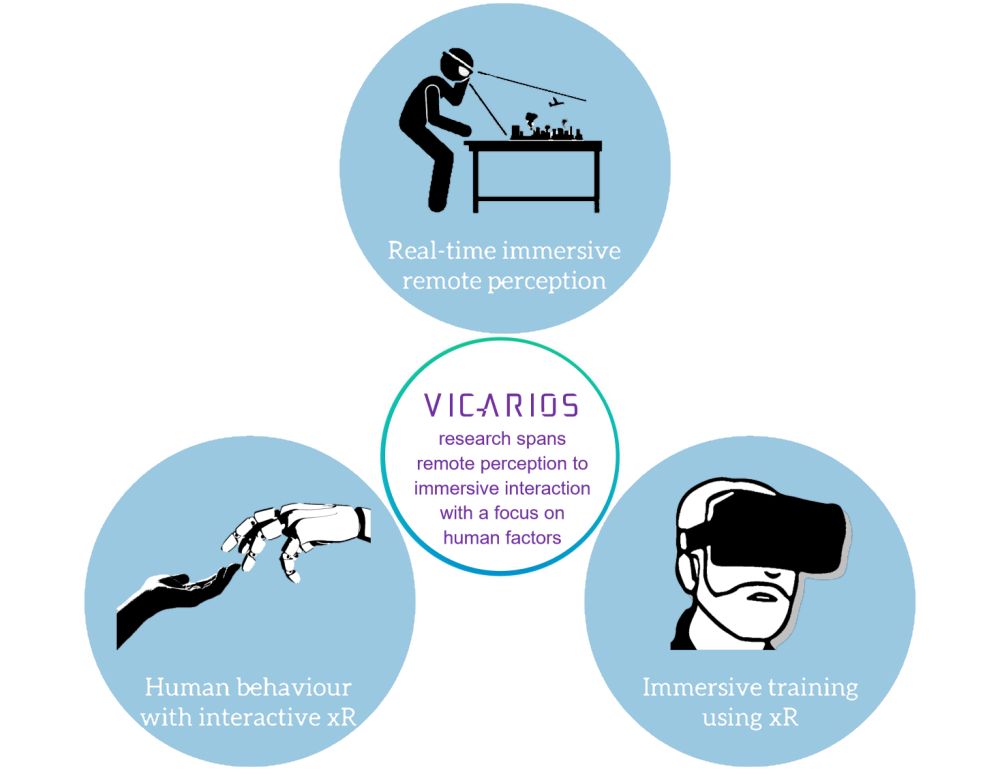
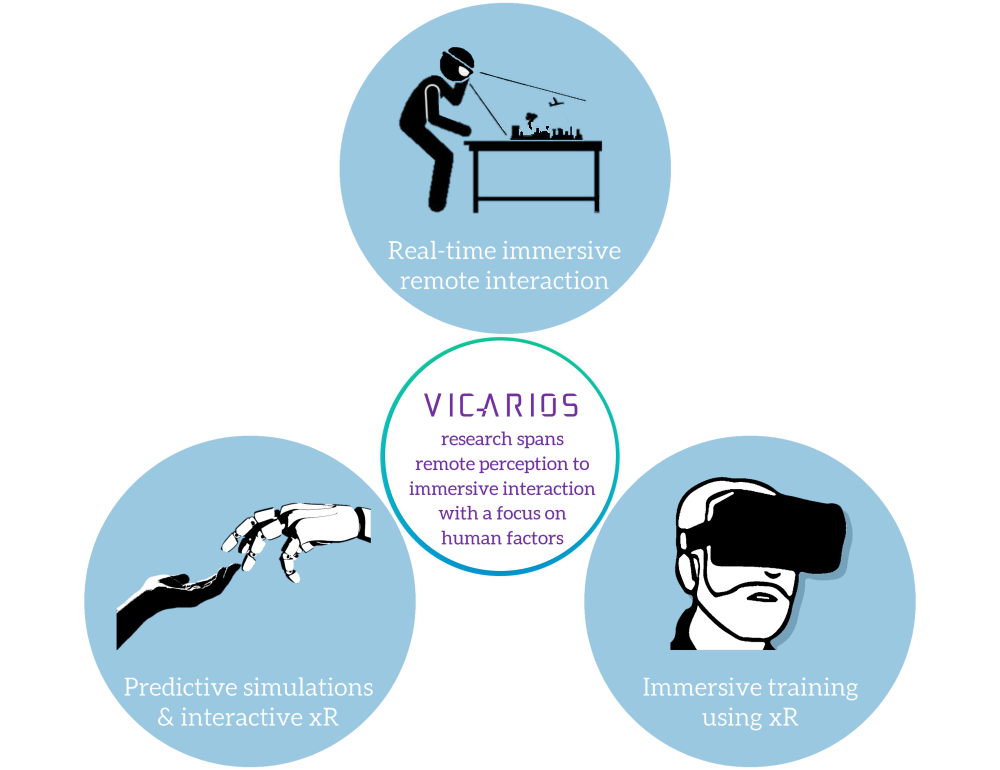
document update

diff --git a/index.html b/index.html
@@ -102,8 +102,8 @@
                         <!-- <h1 class="welcome-title animate v-logo" data-animate="fadeInUp">VICARIOS</h1> -->
                         <!-- <div><img src="images/logos/IIT-v4-logo-advr-t2.png" class="rounded float-left iit-logo-image" alt=""></div> -->
                         <div><img src="images/logos/vicarios-t4-3.png" class="mb-5 v-logo-image crisp-image" alt=""></div>
-                        <span class="animate" data-animate="fadeInUp">\ vɪ‧kɑ‧rɪ‧ɒs \</span>
-                        <p class="animate mt-5 . text-justify" data-animate="fadeInUp">The VICARIOS Mixed Reality and Simulations Lab aims to stimulate users to <em>vicariously</em> experience a remote environment, real or virtual. Through approaches in immersive mixed reality, telerobotics, and biomechanical simulations and control, the objective is to advance the understanding of human interaction with remote environments. </p>
+                        <span class="animate" data-animate="fadeInUp">\ vɪ‧kɑ‧rɪ‧ɒs \</span> <br>
+                        <span class="animate mt-5 . text-justify" data-animate="fadeInUp">The VICARIOS Mixed Reality and Simulations Lab aims to stimulate users to <em>vicariously</em> experience a remote environment, real or virtual. Through approaches in immersive mixed reality, telerobotics, and biomechanical simulations and control, the objective is to advance the understanding of human interaction with remote environments. </span>
                         <div class="scroll-down next-section animate data-animate="fadeInUp""><img src="images/mouse-scroll.png" alt=""><span>Scroll Down</span></div>
                     </div>
                 </div>
@@ -146,7 +146,7 @@
                                             <li><a href="#"><i class="fa fa-twitter"></i></a></li>
                                             <li><a href="#"><i class="fa fa-linkedin"></i></a></li>
                                             </ul>
-                                            <h4 class="mb-0">NIKHIL</h4>
+                                            <h4 class="mb-0">Nikhil</h4>
                                             <span class="padding-bottom">Team Leader</span>
 
                                         </div>
@@ -318,15 +318,15 @@
                                     <div class="col-md-6 half-border">
                                         <div class="title-block tab ">
                                             <div class="" data-animate="">
-                                                <span>Our research stands on three main pillars</span>
+                                                <span>Our research stands on THREE main pillars</span>
                                                 <h2></h2>
                                                 <div class="text-left" data-animate="">
                                                     <span> </span>
-                                                    <h6>To Enhance Real-time Immersive Interaction In telerobotics</h6>
+                                                    <h6>To enhance Real-time Immersive Interaction in Telerobotics</h6>
                                                     <p>We study how the combination of immersive mixed reality (MR) interfaces, intuitive control devices, real-time data from remote sensors (RGB-D cameras, microphones, F/T sensors, etc.) can allow high-fidelity in the perception-action loop, offering a real-time immersive interaction experience to the human user in telerobotics applications. </p>
-                                                    <h6>To Advance State-of-the-art In Immersive Training Through eXtended Reality (xR)</h6>
+                                                    <h6>To advance state-of-the-art in Immersive Training with eXtended Reality (xR)</h6>
                                                     <p>VR serves as a promising technology demonstration for safety training, providing risk free, immersive learning, among other features. We explore how xR technologies, combining VR with spatially contextualized physical interaction, can help make training sessions more effective in the acquisition of safety behaviour, while increasing the trainee’s engagement. </p>
-                                                    <h6>To Understand Human Interaction Behaviour Through Predictive Simulation And xR</h6>
+                                                    <h6>To understand Human Interaction Behaviour through Predictive Simulation and xR</h6>
                                                     <p>The overarching objective of our research is to improve our knowledge of how humans interact with remote environments, real or virtual. We investigate how predictive full-body biomechanical simulations, biophysiological parameter tracking, combined with xR can help understand a human user’s behaviour during their interaction with remote environments. </p>
                                                 </div>                                            
                                             </div>
@@ -352,7 +352,7 @@
                         
                         <div class="col-md-8 wide-col-laptop">
                             <div class="title-block " data-animate="">
-                                <span>PROJECTS</span>
+                                <span>RESEARCH PROJECTS</span>
                                 <h2></h2>
                             </div>
                         </div>
@@ -364,7 +364,7 @@
                             <img class="mb-3 crisp-image" src="images/Image1.jpg" />
                         </div>
                         <div class="col-md-9 text-left">
-                            <h5>Immersive remote telerobotics (IRT) Interface </h5>
+                            <h5>Immersive Remote Telerobotics (IRT) Interface </h5>
                             <p>The interface facilitates intuitive real-time remote teleoperation, while utilizing the inherent benefits of VR, including immersive visualization, freedom of user viewpoint selection, and fluidity of interaction through natural action interfaces </p>
 
                         </div>
@@ -375,8 +375,8 @@
                             <img class="mb-3 crisp-image" src="images/Image2.jpg" />
                         </div>
                         <div class="col-md-9 text-left">
-                            <h5>Immersive remote visualization using Foveated Rendering </h5>
-                            <p>A remote 3D data visualization framework that utilizes the natual acuity fall-off in the human eyes to facilitate the processing, transmission, buffering, and rendering in VR of dense point-clouds / 3D reconstructed scenes. </p>
+                            <h5>Immersive Remote Visualization using Foveated Rendering </h5>
+                            <p>A remote 3D data visualization framework that utilizes the natural acuity fall-off in the human eyes to facilitate the processing, transmission, buffering, and rendering in VR of dense point-clouds / 3D reconstructed scenes. </p>
 
                         </div>
                     </div>
@@ -386,7 +386,7 @@
                             <img class="mb-3 crisp-image" src="images/Image3.jpg" />
                         </div>
                         <div class="col-md-9 text-left">
-                            <h5>Truncated Signed Distance Fields, 3D reconstruction, and real-time haptic feedback in remote exploration applications  </h5>
+                            <h5>Truncated Signed Distance Fields (TSDFs), 3D Reconstruction, and real-time haptic feedback in remote exploration applications  </h5>
                             <p>A unified system for simultaneously estimating obstacle avoidance vectors while generating a TSDF-based 3D reconstruction of the environment, in real-time  </p>
 
                         </div>
@@ -397,7 +397,7 @@
                             <img class="mb-3 crisp-image" src="images/Image4.jpg" />
                         </div>
                         <div class="col-md-9 text-left">
-                            <h5>Immersive Mixed Reality Training for Workers Working at Heights </h5>
+                            <h5>Mixed Reality Training for Industrial Workers </h5>
                             <p>In the field of safety training, immersive, virtual training environments are seen to be more effective than conventional methods, when it comes to the acquisition of safety behaviour, and can increase trainee’s engagement. </p>
 
                         </div>
@@ -427,7 +427,7 @@
                         
                         <div class="col-md-12 wide-col-laptop">
                             <div class="title-block " data-animate="">
-                                <span>FUNDING</span>
+                                <span>FUNDED PROJECTS</span>
                                 <h2></h2>
                             </div>
                         </div>
@@ -438,7 +438,7 @@
                                         <div class="col-md-6">
                                             <div class="title-block tab-right">
                                                 <div class="" data-animate="">
-                                                    <span>ROBOT TELEOPERATIVO 2 </span>
+                                                    <h5>Robot Teleoperativo 2 </h5>
                                                     <h2></h2>
                                                     <div class="text-left" data-animate="">
                                                         <span> </span>
@@ -453,7 +453,7 @@
                                         <div class="col-md-6 half-border">
                                             <div class="title-block tab">
                                                 <div class="" data-animate="">
-                                                    <span>CADUTA dall’ALTO (Falling from Heights) </span>
+                                                    <h5>Caduta dall’Alto </h5> <span>(Falling from Heights) </span>
                                                     <h2></h2>
                                                     <div class="text-left" data-animate="">
                                                         <p>The project is aimed at the design and development of novel strategies and solutions aimed at preventing accidents as well as protecting workers working at heights. The project will focus on advancements in wearable sensing & actuation technologies, including technologies for fall impact reduction and smart monitoring, as well as on new paradigms in immersive training for workers. </p>
@@ -631,6 +631,15 @@
                                                         <span> </span>
                                                         <p></p>
                                                         <div class="row justify-content-center d-flex align-items-center">
+                                                            <div class="col-md-1">
+                                                                <img src="images/logos/DLS t1.png" alt="">
+                                                            </div> 
+                                                            <div class="col-md-1">
+                                                                <img src="images/logos/HHCM t1.png" alt="">
+                                                            </div> 
+                                                            <div class="col-md-1">
+                                                                <img src="images/logos/rehab t1.png" alt="">
+                                                            </div> 
                                                             <div class="col-md-2">
                                                                 <img src="images/logos/logo_Inail_cut-t.png" alt="">
                                                             </div>  

diff --git a/css/style.css b/css/style.css
@@ -38,7 +38,7 @@ body {
 p, li{
   font-weight: 375;
   font-size: 16px;
-  letter-spacing: 0.05em;
+  /* letter-spacing: 0.05em; */
   text-align: left;
 }
 
@@ -72,6 +72,7 @@ a {
 .v-logo {
   font-family: andromeda;
   font-variant: small-caps;
+  color: white;
 }
 
 .iit-email {
